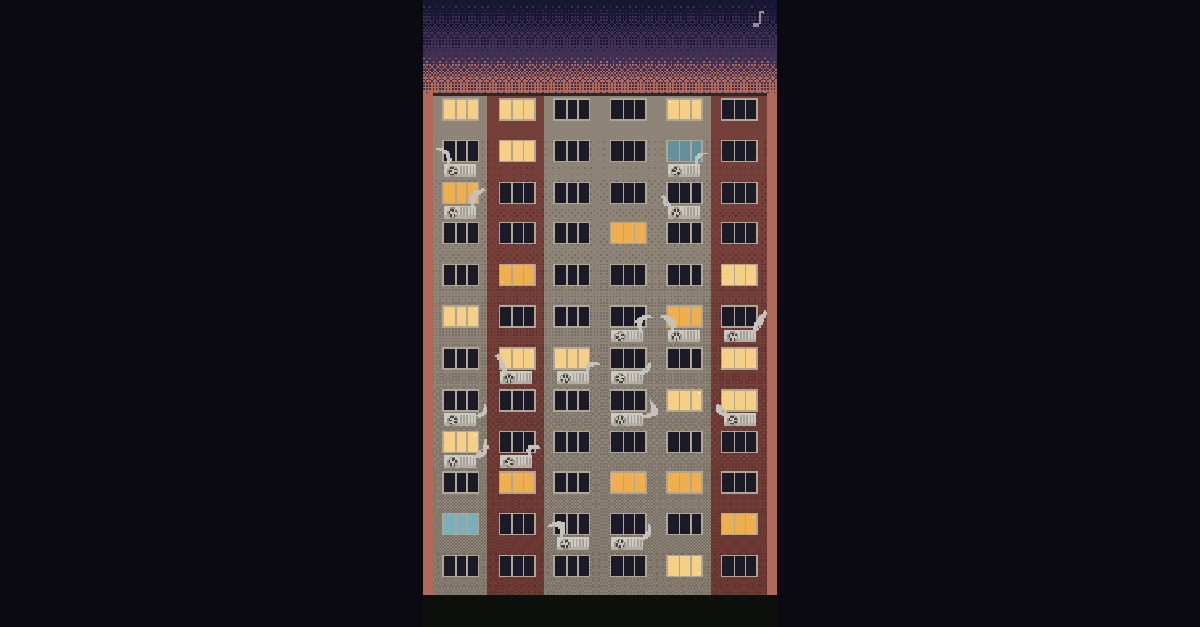
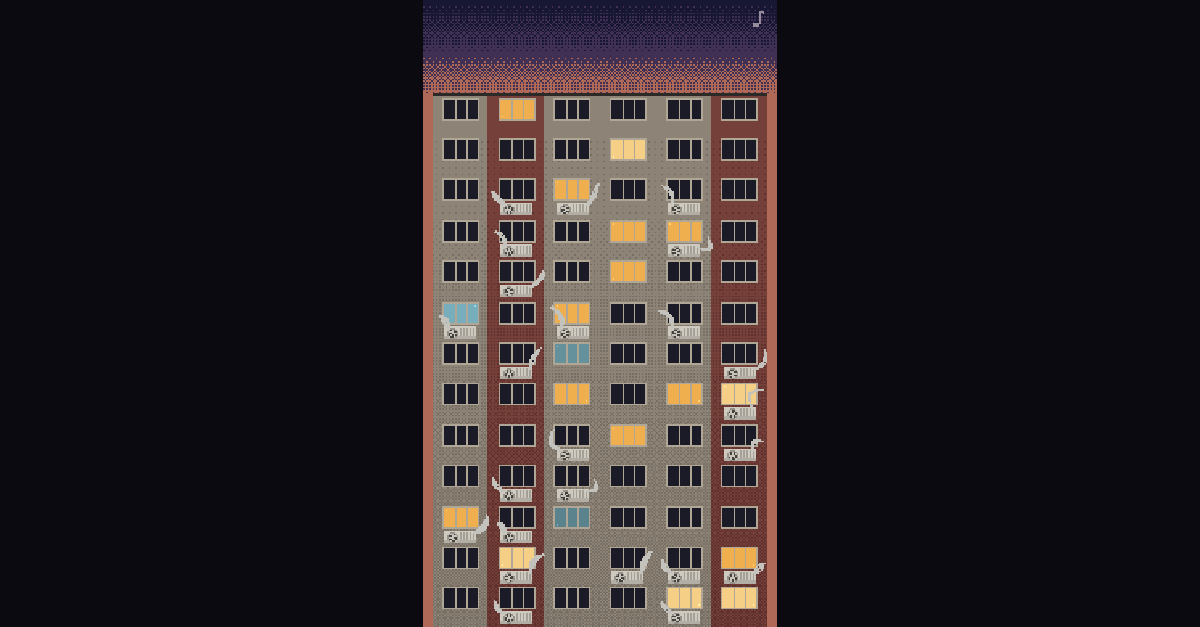
Sync via brendel card with current repo description and updated scene

Changed region(s): [[0.3392, 0.1515, 0.6475, 1.0]]

diff --git a/via-brendel.html b/via-brendel.html
@@ -6,7 +6,7 @@
 <link rel="icon" type="image/png" href="./favicon.png" />
 <title>via brendel — pickpocketview</title>
 <meta property="og:title" content="via brendel" />
-<meta property="og:description" content="A dusk-lit apartment block, hand-rasterized pixel art down to the last window and cable — with a music player drawn straight into the sky." />
+<meta property="og:description" content="A dusk-lit Soviet-era apartment block, drawn entirely in hand-rasterized pixel art. Inspired by Alfred Brendel playing Mozart." />
 <meta property="og:image" content="https://pickpocketview.io/og-via-brendel.png" />
 <meta property="og:url" content="https://pickpocketview.io/via-brendel.html" />
 <meta property="og:type" content="website" />

diff --git a/index.html b/index.html
@@ -107,7 +107,7 @@
         </div>
         <div class="card-body">
           <h2 class="card-title">via brendel</h2>
-          <p class="card-desc">A dusk-lit apartment block in hand-rasterized pixel art &mdash; lit windows, spinning AC units, and a music player drawn straight into the sky.</p>
+          <p class="card-desc">A dusk-lit Soviet-era apartment block, drawn entirely in hand-rasterized pixel art. Inspired by Alfred Brendel playing Mozart.</p>
         </div>
       </a>
     </div>
